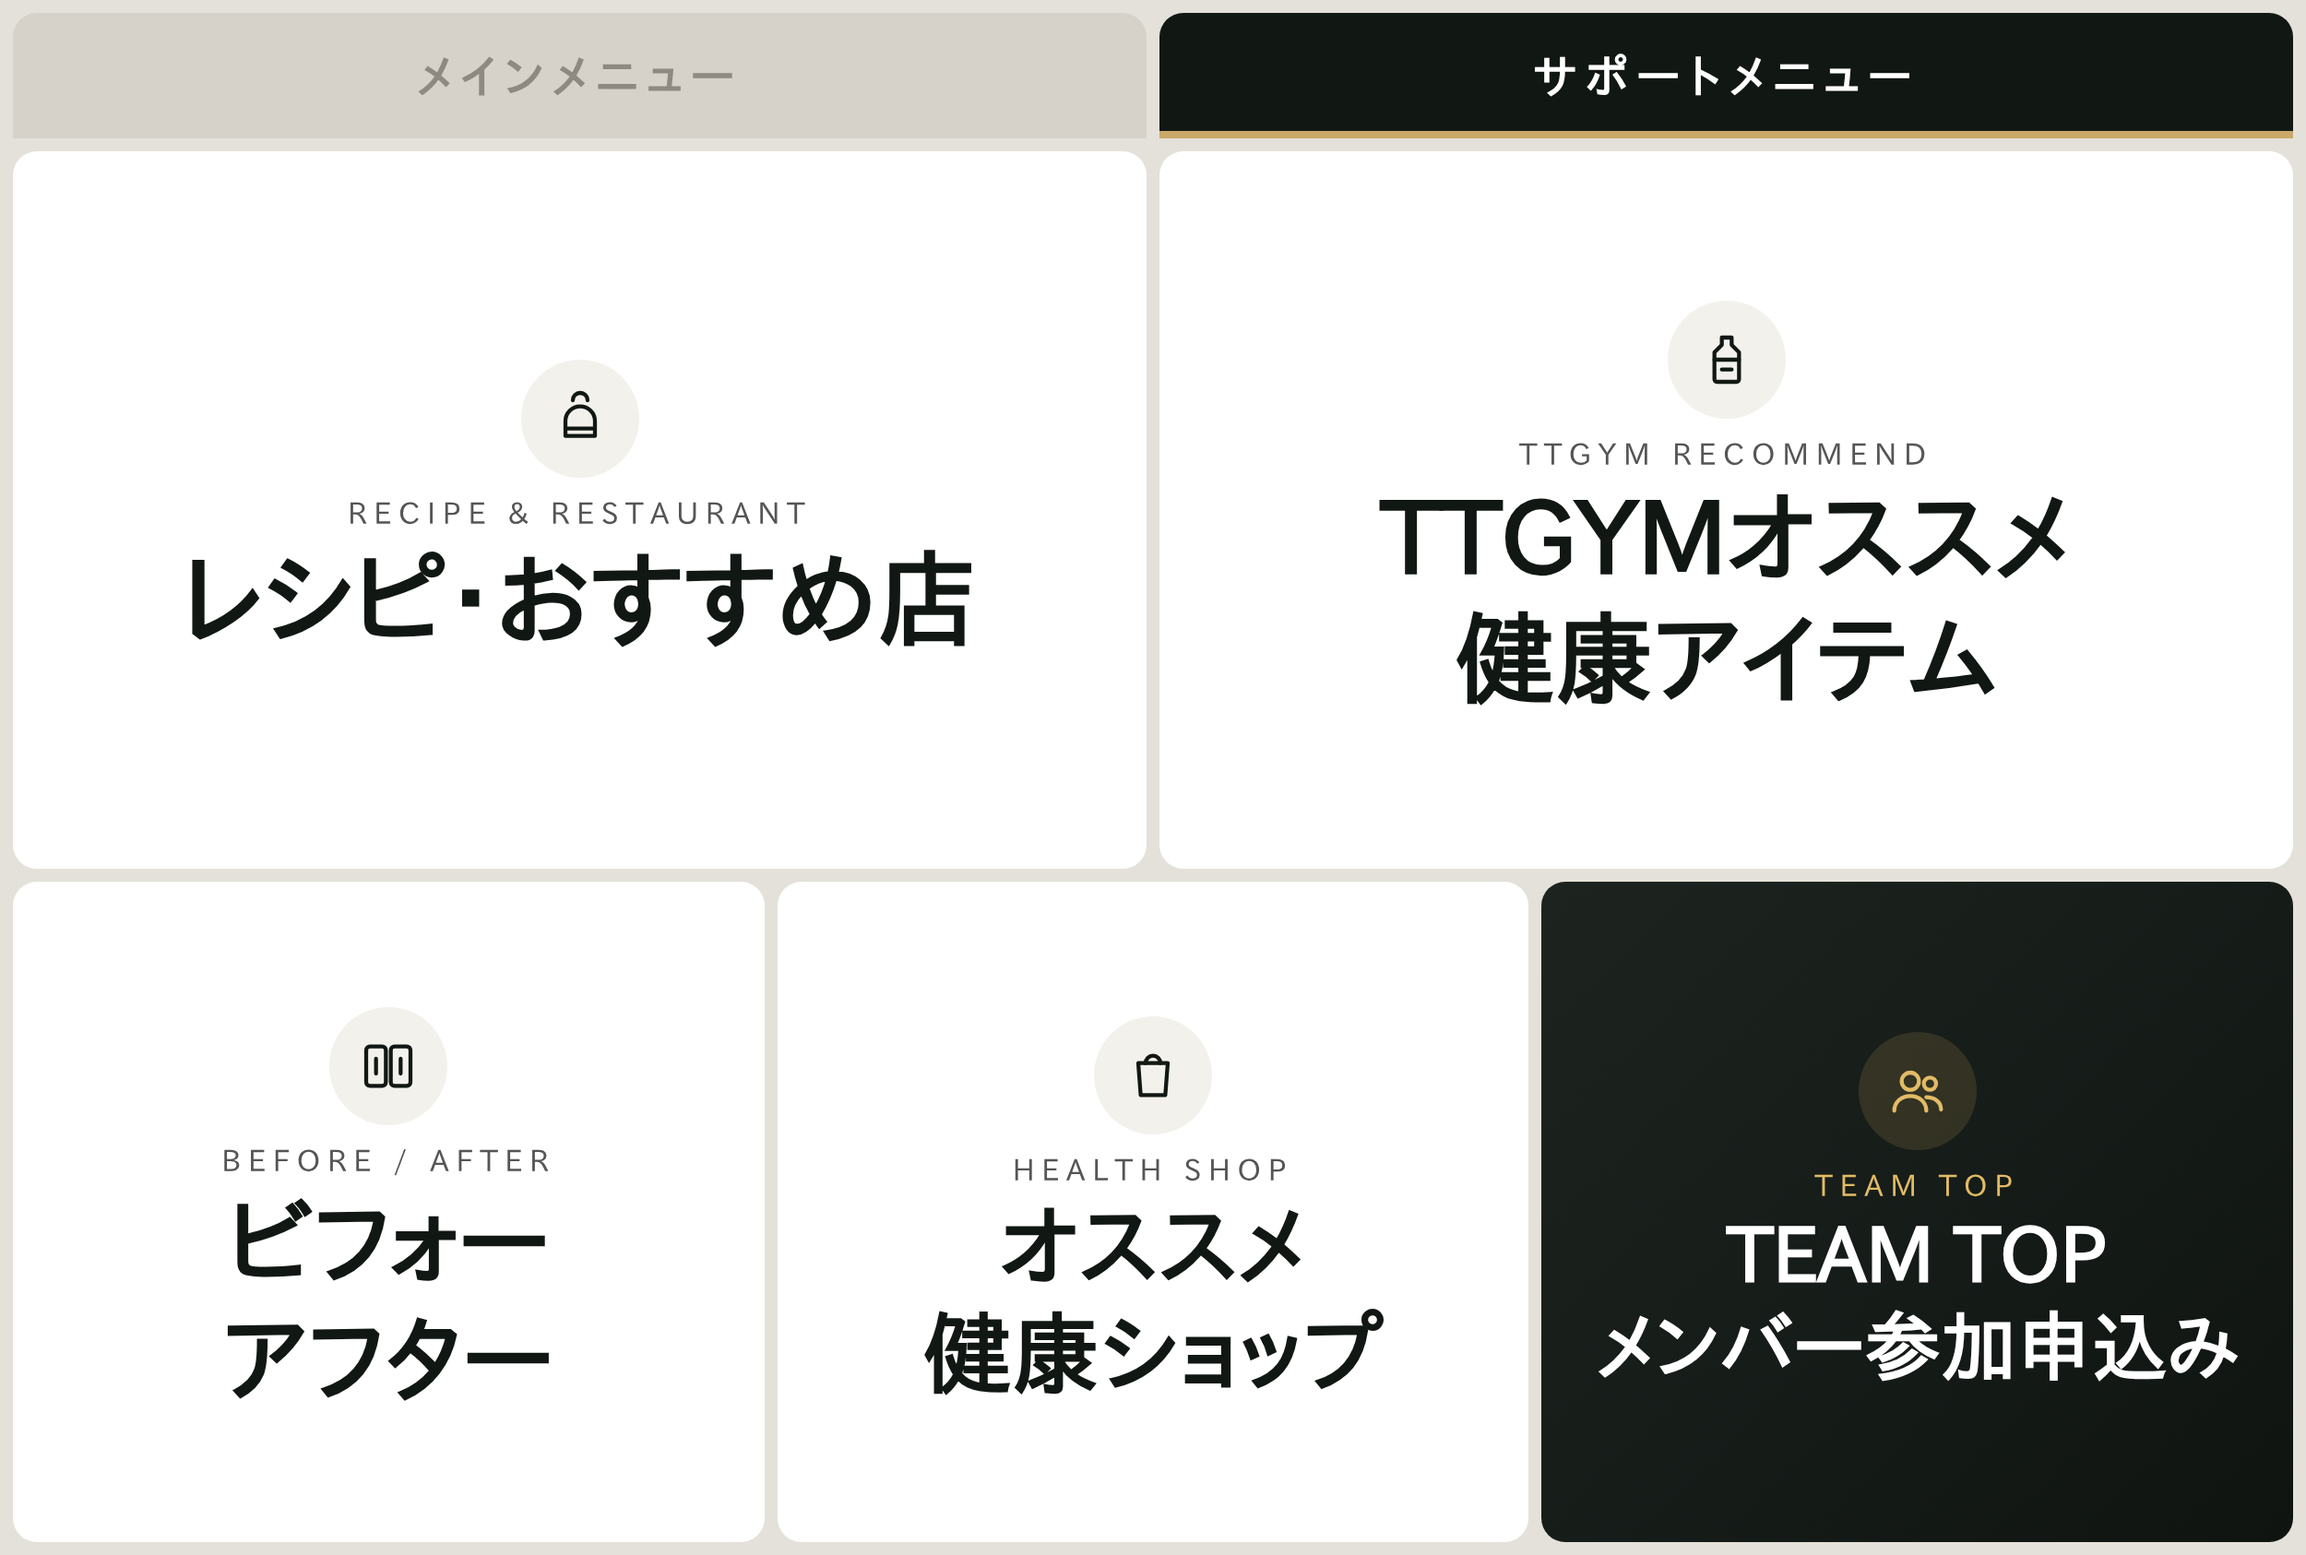
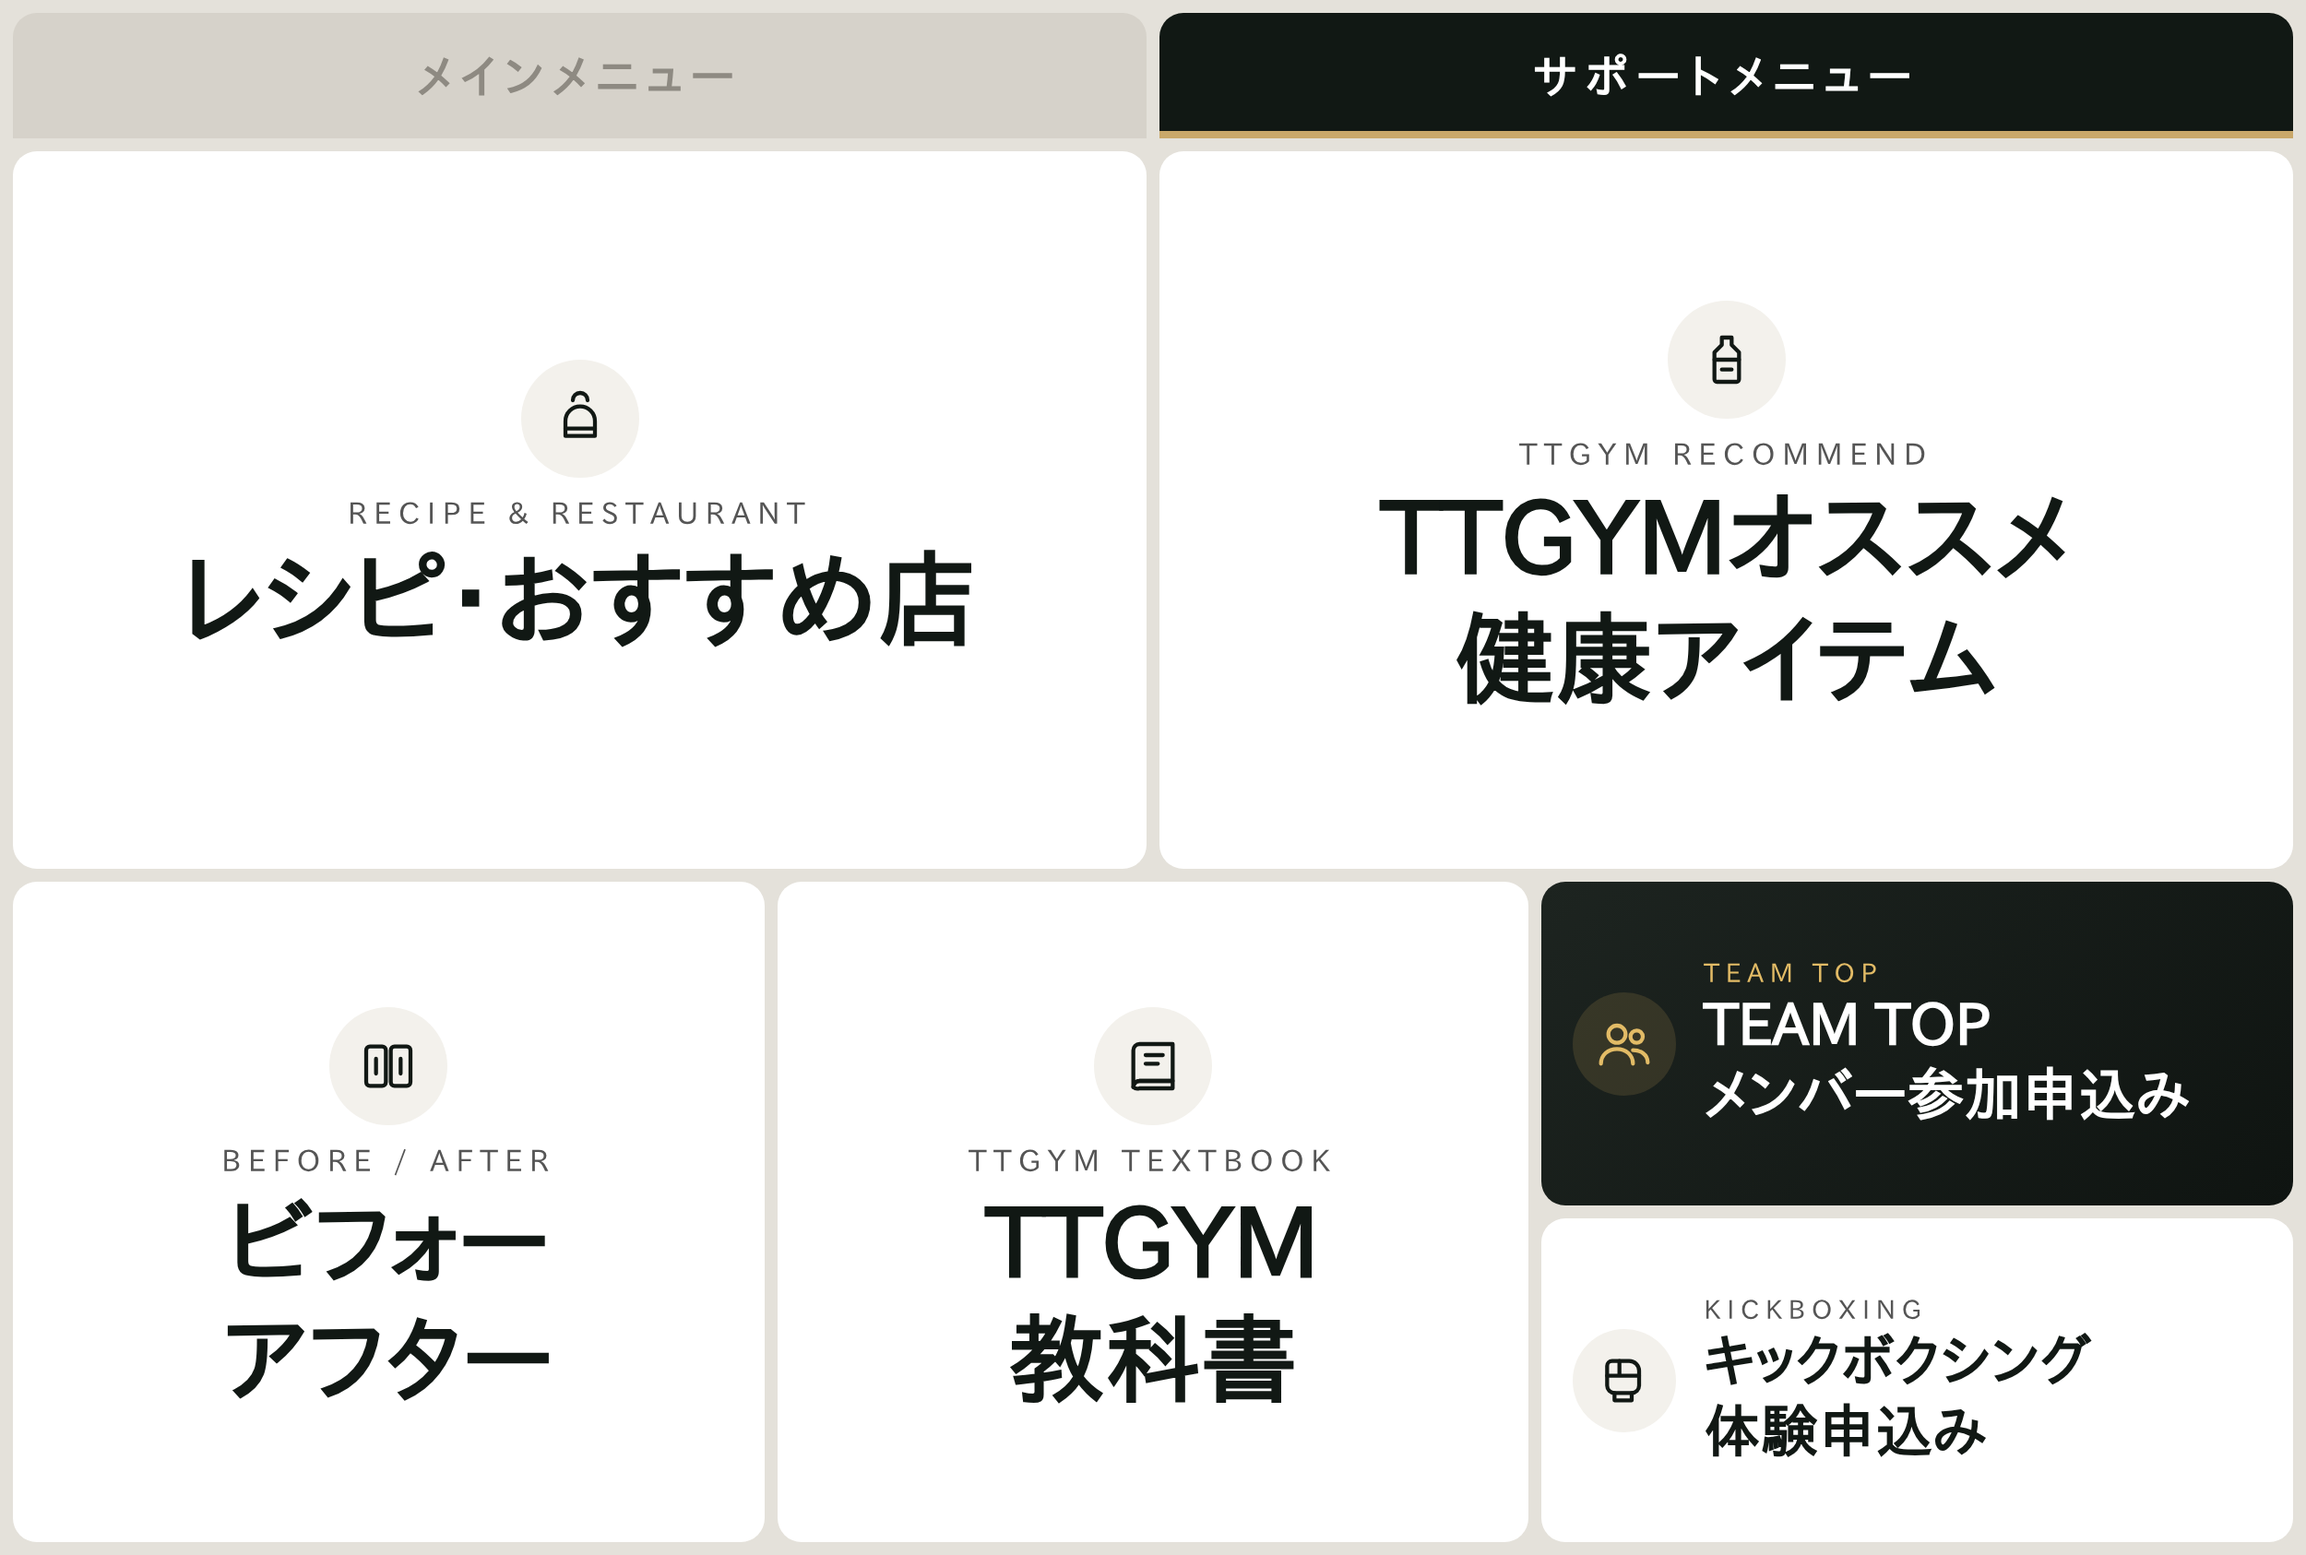
リッチメニュー: オススメ健康ショップ→TTGYM教科書、右下をTEAM TOPとキックボクシング体験の2つに
- サポートメニュー下段の真ん中を「TTGYM教科書」に
- 右下のタイルを上下2つのボタンに分け、上「TEAM TOPメンバー参加申込み」、下「キックボクシング体験申込み」
- リンクの項目を reserve / textbook / teamtop / kickboxing に（管理画面のリッチメニュー欄も同じ）。リンクが空のときは名前がトークに送られ、AIは返事をしない
- RICHMENU_VERSION を上げたので、次にダッシュボードを開いたときに自動で入れ替わる

Claude-Session: https://claude.ai/code/session_01NU1f8FhY6Up6FmWacDNM48

Changed region(s): [[0.6552, 0.6168, 0.9984, 1.0], [0.4056, 0.7402, 0.5928, 0.9253], [0.468, 0.6785, 0.5304, 0.7094]]

diff --git a/api/_lib/richmenu.js b/api/_lib/richmenu.js
@@ -2,7 +2,8 @@
 // scripts/setup-rich-menu.mjs（手元・GitHub Actions）と api/line-admin.js（管理画面のボタン）から使う。
 // 画像は public/liff/richmenu-main.png / richmenu-sub.png（scripts/render-rich-menu.mjs で作成）。
 //
-// links（空ならタイル名をメッセージとして送り、スタッフがチャットで対応する）: reserve, shop, teamtop
+// links（空ならタイル名をメッセージとして送り、スタッフがチャットで対応する）: reserve, textbook（TTGYM教科書）,
+//   teamtop（TEAM TOPメンバー参加申込み）, kickboxing（キックボクシング体験申込み）
 // それ以外のタイルは LINE の中で開くページ（src/liff）:
 //   今日の栄養 /liff、目標設定・MY成長・測定結果 /liff/goal、体調・トレーニング自己管理 /liff/condition、
 //   オンライントレーニングサポート /liff/online、レシピ・おすすめ店 /liff/recipe、
@@ -19,7 +20,7 @@ export async function setupRichMenu({ token, liffId, links = {}, loadImage, log 
 
   // Matches the layout drawn by scripts/render-rich-menu.mjs:
   // tabs y 0–150, upper row y 150–949, lower row y 949–1686
-  const TAB_H = 150, ROW1_END = 949;
+  const TAB_H = 150, ROW1_END = 949, SPLIT = Math.round((ROW1_END + 1686) / 2);
   const box = (x, y, width, height, action) => ({ bounds: { x, y, width, height }, action });
   const tabAreas = [
     box(0, 0, 1250, TAB_H, { type: "richmenuswitch", richMenuAliasId: ALIAS.main, data: "tab=main" }),
@@ -42,7 +43,11 @@ export async function setupRichMenu({ token, liffId, links = {}, loadImage, log 
       ...tabAreas,
       box(0, TAB_H, 1250, ROW1_END - TAB_H, liff("/recipe")),
       box(1250, TAB_H, 1250, ROW1_END - TAB_H, liff("/items")),
-      ...lower({ type: "uri", uri: BEFORE_AFTER_URL }, linkOr(links.shop, "オススメ健康ショップ"), linkOr(links.teamtop, "TEAM TOPメンバー参加申込み")),
+      box(0, ROW1_END, 833, 1686 - ROW1_END, { type: "uri", uri: BEFORE_AFTER_URL }),
+      box(833, ROW1_END, 834, 1686 - ROW1_END, linkOr(links.textbook, "TTGYM教科書")),
+      // 右下は上下2つのボタン（TEAM TOP・キックボクシング体験）
+      box(1667, ROW1_END, 833, SPLIT - ROW1_END, linkOr(links.teamtop, "TEAM TOPメンバー参加申込み")),
+      box(1667, SPLIT, 833, 1686 - SPLIT, linkOr(links.kickboxing, "キックボクシング体験申込み")),
     ],
   };
 

diff --git a/api/_lib/richmenuAuto.js b/api/_lib/richmenuAuto.js
@@ -8,16 +8,19 @@ import { kvGet, kvSet } from "./nutri.js";
 import { setupRichMenu } from "./richmenu.js";
 import { LIFF_ID } from "../../src/lineConfig.js";
 
-export const RICHMENU_VERSION = "2026-10-29-larger-text";
+export const RICHMENU_VERSION = "2026-10-29-textbook-kickboxing";
 
 const parse = raw => { try { return raw ? JSON.parse(raw) : null; } catch (e) { return null; } };
 const clean = v => (/^https?:\/\/\S+$/.test(String(v || "").trim()) ? String(v).trim() : "");
 
-// links を省略すると、前回登録したリンク（予約・オススメ健康ショップ・TEAM TOP）を使う
+// リンクを入れられるタイル（空ならタイル名がメッセージとして送られる）
+export const LINK_KEYS = ["reserve", "textbook", "teamtop", "kickboxing"];
+
+// links を省略すると、前回登録したリンク（予約・TTGYM教科書・TEAM TOP・キックボクシング体験）を使う
 export async function registerRichMenu({ origin, links }) {
   const saved = parse(await kvGet("line_richmenu:links")) || {};
   const src = links || saved;
-  const clean3 = Object.fromEntries(["reserve", "shop", "teamtop"].map(k => [k, clean(src[k])]));
+  const clean3 = Object.fromEntries(LINK_KEYS.map(k => [k, clean(src[k])]));
   const created = await setupRichMenu({
     token: process.env.LINE_CHANNEL_ACCESS_TOKEN,
     liffId: process.env.LIFF_ID || process.env.VITE_LIFF_ID || LIFF_ID,

diff --git a/api/line-admin.js b/api/line-admin.js
@@ -9,7 +9,7 @@
 //   { action: "push", lineUserId, text }                 → お客様のLINEにメッセージを送る
 //   { action: "link", lineUserId, profileId }            → LINEの人とアプリ会員を連携（記録も同期）
 //   { action: "unlink", lineUserId }                     → 連携を外す（体重・水分はLINE側にも残す）
-//   { action: "richmenu", links?: { reserve, shop, teamtop } } → リッチメニューを作り直す
+//   { action: "richmenu", links?: { reserve, textbook, teamtop, kickboxing } } → リッチメニューを作り直す
 //     （"Authorization: Bearer <CRON_SECRET>" でも可。links を省略すると前回登録したリンクを使う）
 
 import { loadUser, saveUser, kvGet, kvSet, kvDelete, push, appendLog, liffUrl } from "./_lib/nutri.js";

diff --git a/api/line-webhook.js b/api/line-webhook.js
@@ -236,7 +236,7 @@ async function recordBody(lineUserId, user, replyToken, weight, bodyFat) {
 
 // リッチメニューのリンク未設定のタイルは、この言葉をメッセージとして送る。
 // スタッフがチャットで手動対応できるよう、AIは返事をしない
-const MENU_WORDS = new Set(["予約", "オススメ健康ショップ", "TEAM TOPメンバー参加申込み"]);
+const MENU_WORDS = new Set(["予約", "オススメ健康ショップ", "TTGYM教科書", "TEAM TOPメンバー参加申込み", "キックボクシング体験申込み"]);
 
 // 戻り値 true = このメッセージは食事/体重の記録として処理した（または意図的に何もしない）
 async function handleNutrition(event, lineUserId, replyToken, linkedProfileId) {

diff --git a/src/admin/LinePanel.jsx b/src/admin/LinePanel.jsx
@@ -229,8 +229,9 @@ function LineUserDetail({ u, members, onChanged, hasKey }) {
 // リッチメニュー（2ページ）をLINEに登録・作り直す。リンク未定のタイルは空欄でOK
 const MENU_LINKS = [
   ["reserve", "予約"],
-  ["shop", "オススメ健康ショップ"],
+  ["textbook", "TTGYM教科書"],
   ["teamtop", "TEAM TOPメンバー参加申込み"],
+  ["kickboxing", "キックボクシング体験申込み"],
 ];
 
 function RichMenuBox({ hasKey }) {
